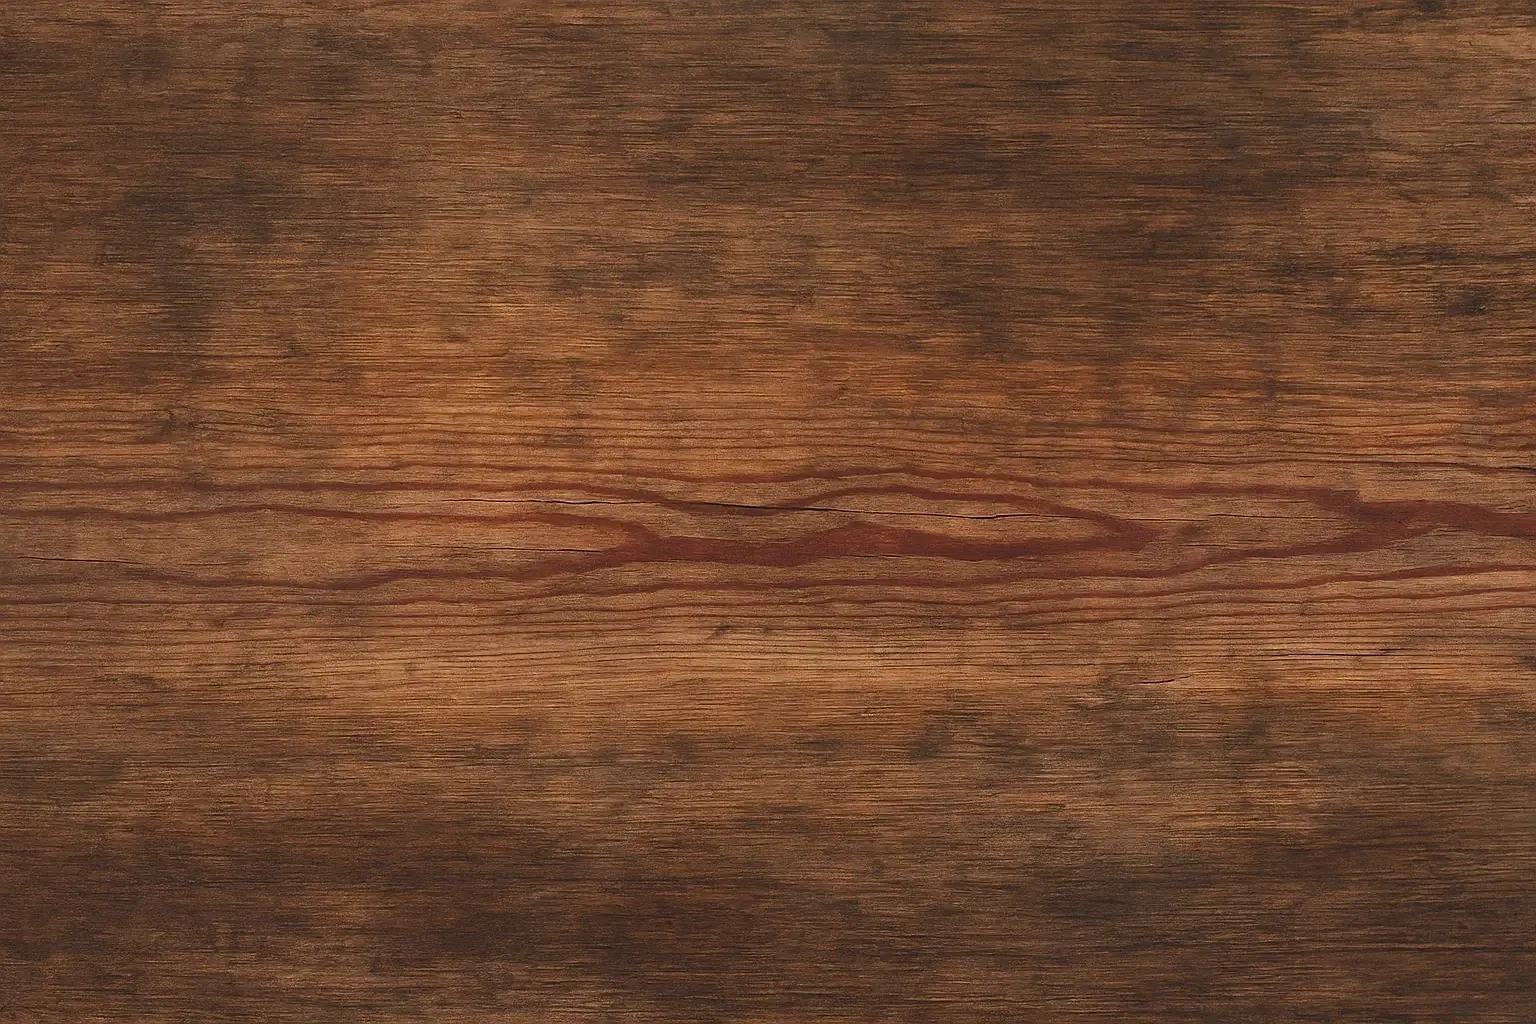
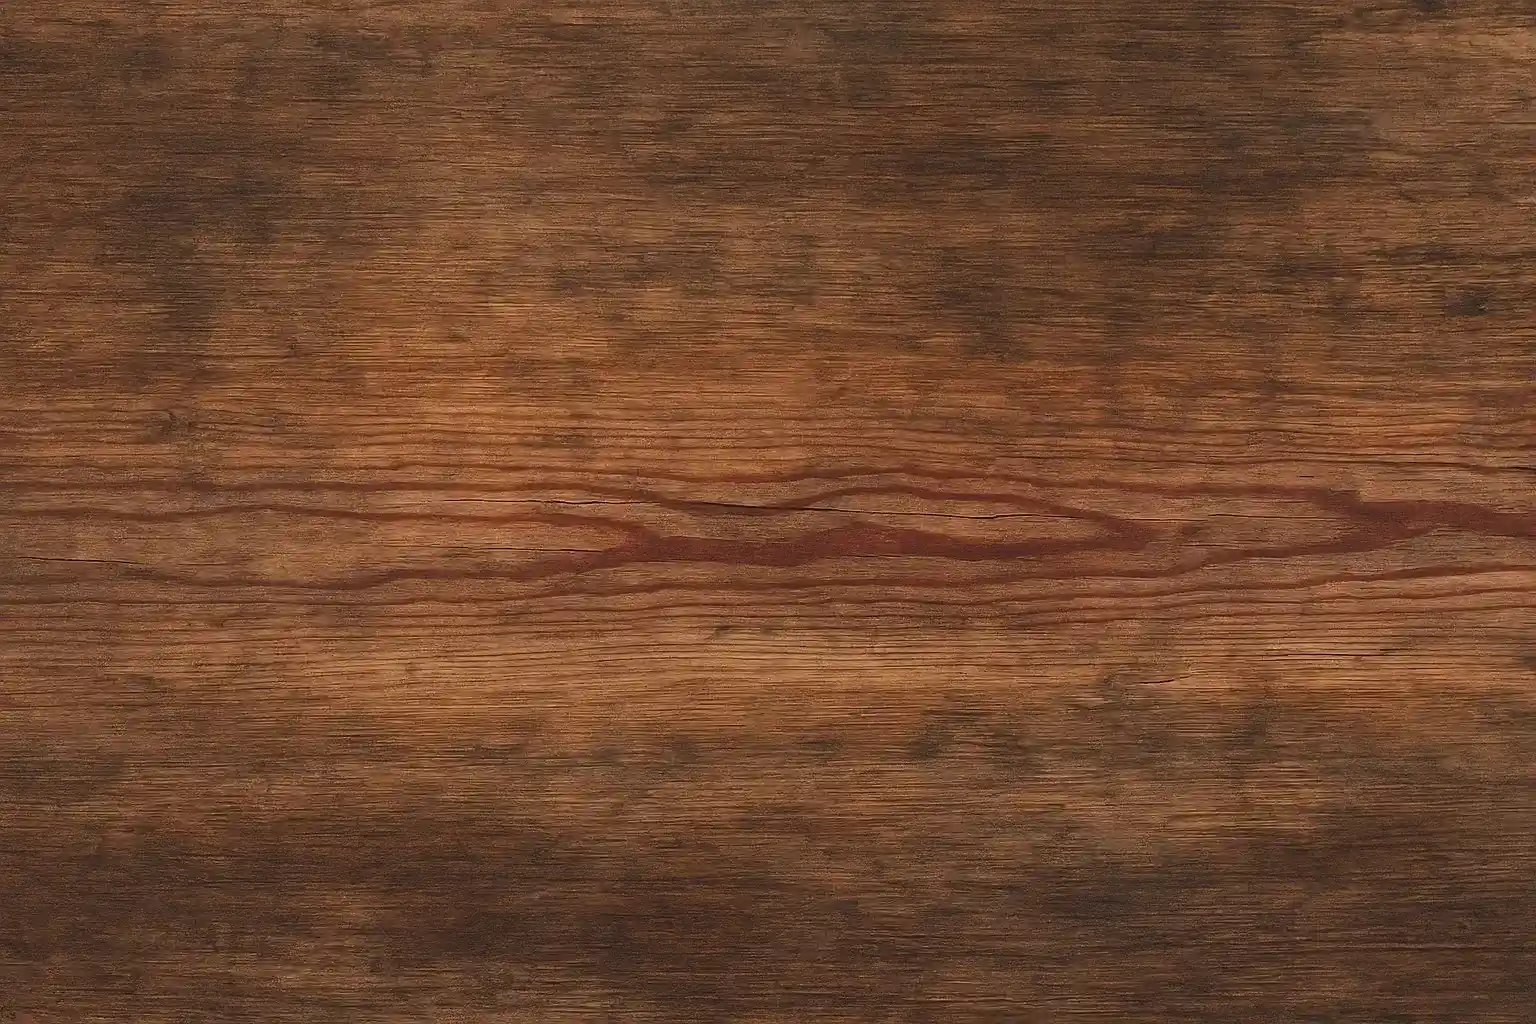
perf: optimize hero image and convert Home to server component with lazy-loaded Contact

diff --git a/src/app/page.tsx b/src/app/page.tsx
@@ -1,5 +1,9 @@
 import { Metadata } from 'next';
+import dynamic from 'next/dynamic';
 import Home from "@/components/Home";
+import { Footer } from "@/components/Footer";
+
+const Contact = dynamic(() => import("@/components/Contact"));
 
 export const metadata: Metadata = {
   title: 'Strona Główna - Słodkie Wypieki',
@@ -7,11 +11,11 @@ export const metadata: Metadata = {
   openGraph: {
     title: 'Strona Główna - Słodkie Wypieki',
     description: 'Domowe wypieki i torty na zamówienie z dostawą w Hanusku i okolicach.',
-    url: 'https://tortyartystyczne.vercel.app/',
+    url: 'https://hanuskowytorcik.vercel.app/',
     siteName: 'Słodkie Wypieki',
     images: [
       {
-        url: 'https://tortyartystyczne.vercel.app/images/og_image.jpg',
+        url: 'https://hanuskowytorcik.vercel.app/images/og_image.jpg',
         width: 464,
         height: 417,
         alt: 'Logo i wypieki Słodkie Wypieki',
@@ -26,7 +30,7 @@ export default function HomePage() {
     "@context": "https://schema.org",
     "@type": "LocalBusiness",
     "name": "Słodkie Wypieki",
-    "image": "https://tortyartystyczne.vercel.app/images/og-image.jpg",
+    "image": "https://hanuskowytorcik.vercel.app/images/og-image.jpg",
     "description": "Domowe wypieki i torty na zamówienie",
     "address": {
       "@type": "PostalAddress",
@@ -44,6 +48,8 @@ export default function HomePage() {
             dangerouslySetInnerHTML={{ __html: JSON.stringify(jsonLd) }}
         />
         <Home />
+        <Contact />
+        <Footer />
       </>
   );
 }

diff --git a/src/components/Home.tsx b/src/components/Home.tsx
@@ -1,13 +1,7 @@
-'use client';
-
 import Image from "next/image";
-import dynamic from "next/dynamic";
 import backgroundImage from '../assets/images/wood_background.webp';
 import logo from '../assets/images/logo.webp';
-import Contact from "@/components/Contact";
-import {Footer} from "@/components/Footer";
-
-const Gallery = dynamic(() => import("./Gallery"), { ssr: false });
+import GalleryLoader from "./GalleryLoader";
 
 const Home = () => {
 
@@ -49,7 +43,7 @@ const Home = () => {
                         Moje realizacje
                     </h2>
                     <div className="w-full max-w-[2000px] mx-auto">
-                        <Gallery />
+                        <GalleryLoader />
                     </div>
                 </div>
             </section>
@@ -57,12 +51,4 @@ const Home = () => {
     );
 };
 
-export default function Page() {
-    return (
-        <>
-            <Home />
-            <Contact />
-            <Footer />
-        </>
-    );
-}
+export default Home;

diff --git a/src/components/GalleryLoader.tsx b/src/components/GalleryLoader.tsx
@@ -1,0 +1,9 @@
+'use client';
+
+import dynamic from "next/dynamic";
+
+const Gallery = dynamic(() => import("./Gallery"), { ssr: false });
+
+export default function GalleryLoader() {
+    return <Gallery />;
+}
